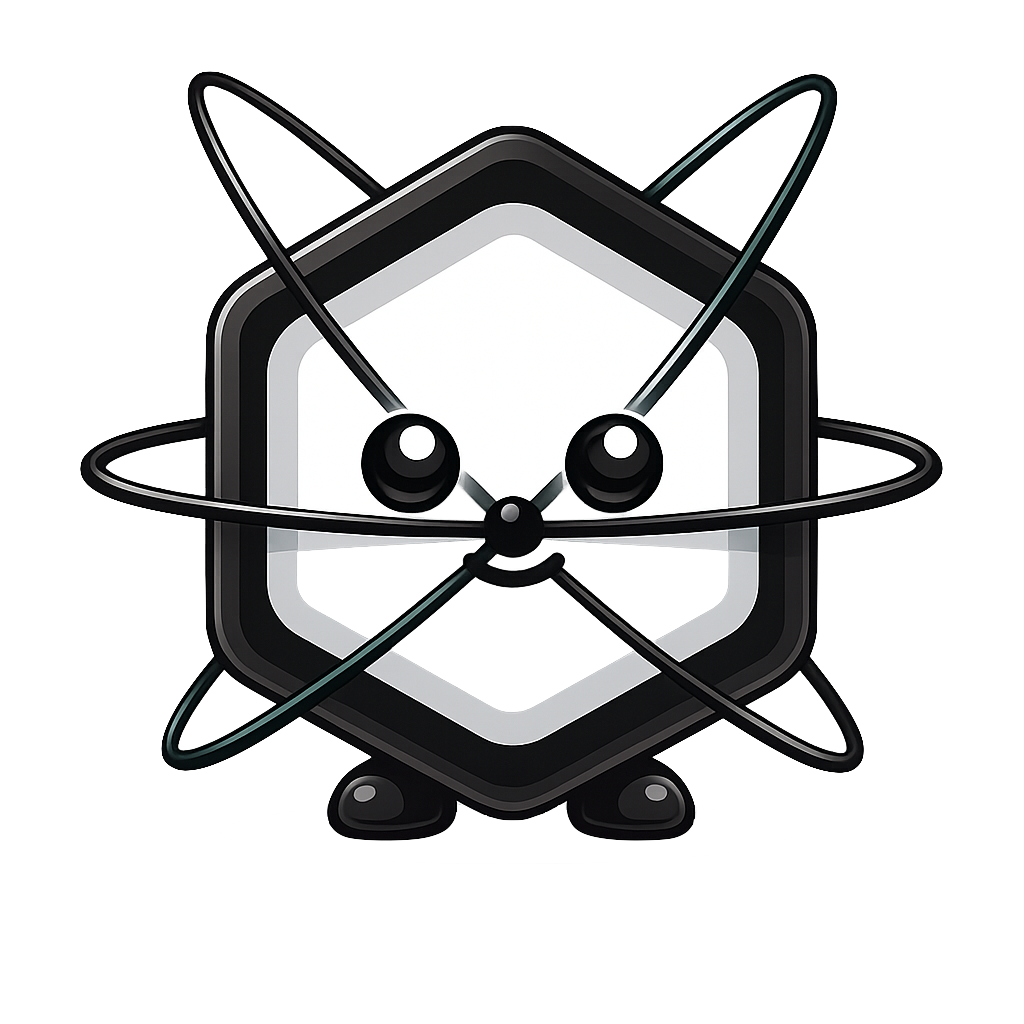
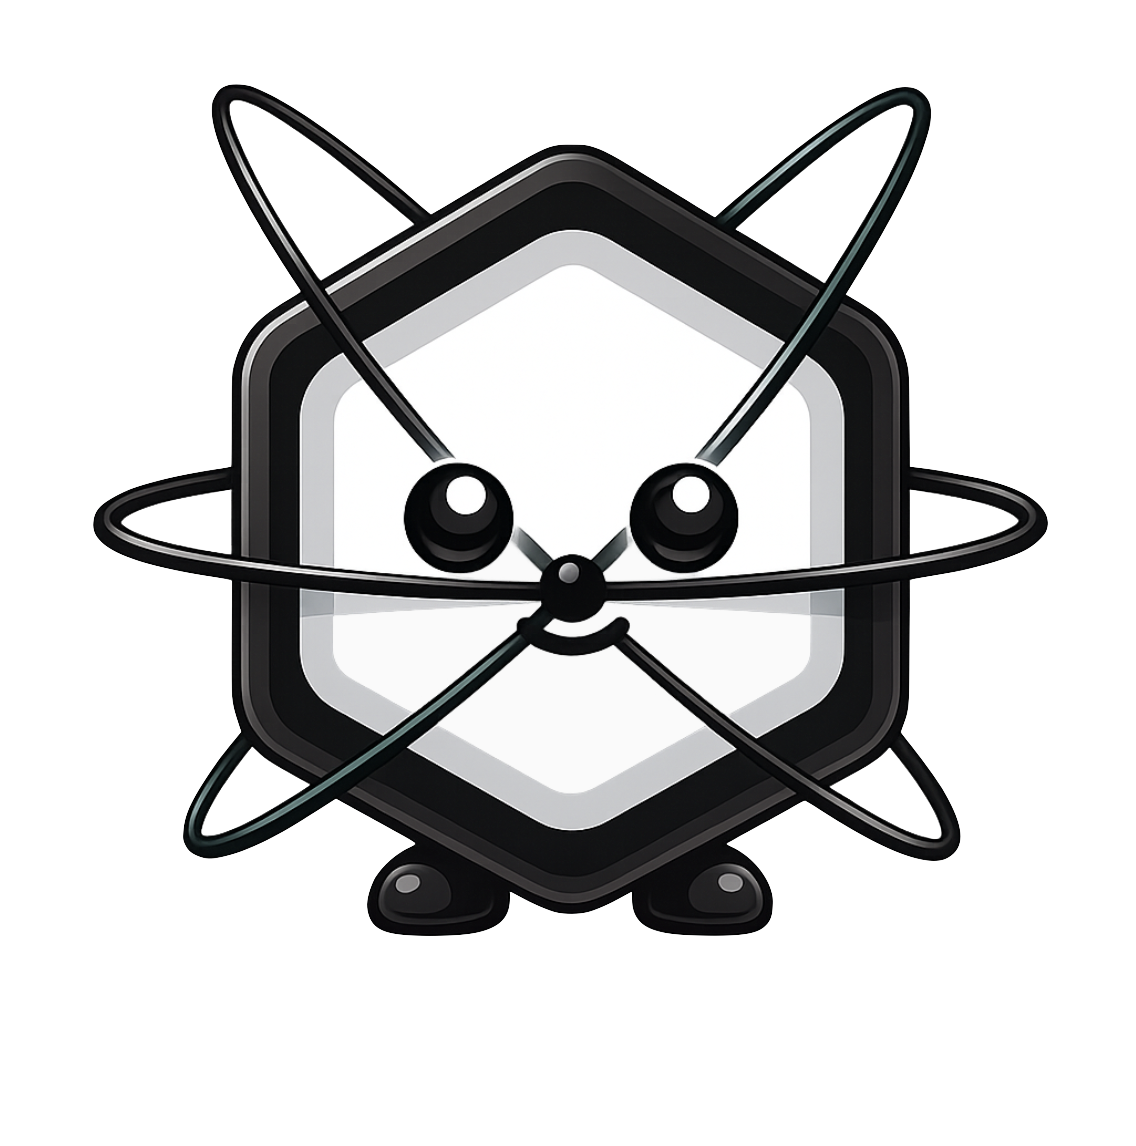
fix(games): new doodle sprite, unclipped HUD, space-to-shoot
- Replace doodlecharacter.png with the updated artwork (1136x1146).
  No path changes needed; pre-render cache rebuilds on load.
- Drop overflow:hidden on the .hud row and add a few px of bottom
  padding so the chip drop-shadows are no longer clipped against the
  canvas frame. flex-wrap:nowrap already prevents reflow on width
  changes, which is why overflow:hidden was there in the first place.
- Add a player projectile system: Space (or Up) fires a bullet
  upward at a 14-frame cooldown. Bullets cull off-screen, kill any
  monster they touch, and emit a small spark burst on impact. Bullet
  collisions resolve before monster->player collisions in the same
  frame so a well-timed shot saves you from the hit. Start overlay
  copy and key legend updated to mention shooting.

diff --git a/posts/games/_doodle_template.html b/posts/games/_doodle_template.html
@@ -100,10 +100,15 @@
     flex-wrap: nowrap;
     align-items: center;
     justify-content: flex-start;
-    margin: 10px 0 12px;
+    /* Bottom margin includes the chip drop-shadow (1.5px) plus a couple
+       extra pixels so it's never clipped by the canvas-wrap below.
+       NOTE: we deliberately do NOT set overflow:hidden here — it was
+       cutting off the bottom-right of every chip's shadow. flex-wrap:
+       nowrap already prevents the row from reflowing on width changes. */
+    margin: 10px 0 14px;
+    padding-bottom: 3px;
     font-size: 12px;
     font-weight: 600;
-    overflow: hidden;
   }
   .chip {
     display: inline-flex;
@@ -479,10 +484,10 @@
       <div class="overlay" id="overlayStart">
         <div class="overlay-card">
           <h2>Ready to climb?</h2>
-          <p>Bounce ever upward. The first <strong>gold platform</strong> asks a question — get it right for a power-up. If you fall or get hit, answer one of the remaining questions correctly to <strong>save yourself</strong> and keep climbing.</p>
+          <p>Bounce ever upward. The first <strong>gold platform</strong> asks a question — get it right for a power-up. Press <strong>Space</strong> to shoot bullets at monsters. If you fall or get hit, answer one of the remaining questions correctly to <strong>save yourself</strong> and keep climbing.</p>
           <div class="keys">
             <span><kbd>&larr;</kbd><kbd>&rarr;</kbd> Move</span>
-            <span><kbd>Space</kbd> Start</span>
+            <span><kbd>Space</kbd> Shoot / Start</span>
           </div>
           <div class="tilt-hint" style="margin: 4px 0 14px;">
             <svg viewBox="0 0 24 24" fill="none" stroke="currentColor" stroke-width="2" stroke-linecap="round" stroke-linejoin="round">
@@ -684,7 +689,9 @@ let p = null;            // player
 let platforms = [];      // {x,y,w,h,type,vx,used,broken,spawnedQ?}
 let monsters = [];       // {x,y,w,h,vx,kind}
 let powerups = [];       // {x,y,w,h,kind} — spring/jet/shield (drawn on platforms)
+let bullets = [];        // {x,y,vy,life} — player projectiles, fired with Space/Up
 let particles = [];
+let bulletCooldown = 0;  // frames until the player can fire again
 let cameraY = 0;
 let height = 0;          // metres climbed (peak)
 let lives = 3;
@@ -737,6 +744,7 @@ function seedWorld() {
   platforms = [];
   monsters = [];
   powerups = [];
+  bullets = [];
   particles = [];
   // Ground starter.
   spawnPlatform(H - 30, { x: W / 2 - PLATFORM_W / 2, type: "green" });
@@ -803,6 +811,7 @@ function startGame() {
   rescuesUsed = 0;
   answeredCorrectly.clear();
   currentQIndex = -1;
+  bulletCooldown = 0;
   lastFrameTs = 0;
   stepAccumulator = 0;
   p = { x: W / 2 - PLAYER_W / 2, y: H - 100, vx: 0, vy: JUMP_VY, facing: 1 };
@@ -1049,6 +1058,24 @@ function awardPowerForQuestion(idx) {
   }
 }
 
+// Bullets: fired upward from the doodler. Cheap collision check against
+// monsters; kill on hit. Capped fire rate so holding Space doesn't spawn a
+// solid laser column. Range-limited so off-screen bullets don't accumulate.
+const BULLET_VY = -8.5;          // logical-pixel speed (negative = upward)
+const BULLET_LIFE = 80;          // ~1.3s at 60fps — about a screen-and-a-half
+const BULLET_COOLDOWN = 14;      // frames between shots (4-5 per second)
+function fireBullet() {
+  if (state !== STATE.PLAYING || !p) return;
+  if (bulletCooldown > 0) return;
+  bulletCooldown = BULLET_COOLDOWN;
+  bullets.push({
+    x: p.x + PLAYER_W / 2 - 3,
+    y: p.y + 4,
+    vy: BULLET_VY,
+    life: BULLET_LIFE
+  });
+}
+
 function spawnPenaltyMonster() {
   // Place above the player so they have to dodge or take a hit.
   monsters.push({
@@ -1202,6 +1229,38 @@ function step() {
       else if (u.kind === "jet") { activePower = "jet"; powerTicks = 110; }
       powerups.splice(i, 1);
     }
+  }
+
+  // Bullets: advance, expire, and check vs monsters. Order matters — we
+  // resolve bullet→monster collisions BEFORE monster→player collisions so a
+  // shot fired into a monster overhead kills it before it can land on the
+  // doodler in the same frame.
+  if (bulletCooldown > 0) bulletCooldown--;
+  for (let i = bullets.length - 1; i >= 0; i--) {
+    const b = bullets[i];
+    b.y += b.vy;
+    b.life--;
+    // Cull bullets that left the screen or expired.
+    if (b.life <= 0 || b.y < cameraY - 80) { bullets.splice(i, 1); continue; }
+    // Hit any monster?
+    let killed = false;
+    for (let j = monsters.length - 1; j >= 0; j--) {
+      const m = monsters[j];
+      if (b.x + 6 > m.x && b.x < m.x + m.w && b.y + 8 > m.y && b.y < m.y + m.h) {
+        monsters.splice(j, 1);
+        // Little burst of particles for the kill so it feels good.
+        for (let k = 0; k < 6; k++) {
+          particles.push({
+            x: m.x + m.w / 2, y: m.y + m.h / 2,
+            vx: rand(-1.6, 1.6), vy: rand(-1.6, 1.6),
+            life: 22, kind: "spark"
+          });
+        }
+        killed = true;
+        break;
+      }
+    }
+    if (killed) bullets.splice(i, 1);
   }
 
   // Monster collisions.
@@ -1499,6 +1558,23 @@ function draw() {
     }
   }
 
+  // Bullets: bright capsules with a glow trail. Drawn under monsters so
+  // the kill burst above sits on top.
+  for (const b of bullets) {
+    if (b.y < cameraY - 40 || b.y > cameraY + H + 40) continue;
+    ctx.fillStyle = "rgba(255, 220, 80, 0.45)";
+    ctx.beginPath();
+    ctx.arc(b.x + 3, b.y + 5, 7, 0, Math.PI * 2);
+    ctx.fill();
+    ctx.fillStyle = "#fff5b0";
+    ctx.beginPath();
+    ctx.arc(b.x + 3, b.y + 5, 3, 0, Math.PI * 2);
+    ctx.fill();
+    ctx.strokeStyle = "#a87814";
+    ctx.lineWidth = 1.5;
+    ctx.stroke();
+  }
+
   // Monsters: round mauve/red blobs with eyes.
   for (const m of monsters) {
     rect(m.x, m.y, m.w, m.h, "#c0567a", "#7a1f3a");
@@ -1526,6 +1602,12 @@ function draw() {
       ctx.fillStyle = "rgba(120, 120, 130, " + (pa.life / 28) + ")";
       ctx.beginPath();
       ctx.arc(pa.x, pa.y, 3 + (28 - pa.life) * 0.1, 0, Math.PI * 2);
+      ctx.fill();
+    } else if (pa.kind === "spark") {
+      // Bullet-kill burst: bright dot fading out.
+      ctx.fillStyle = "rgba(255, 200, 80, " + (pa.life / 22).toFixed(2) + ")";
+      ctx.beginPath();
+      ctx.arc(pa.x, pa.y, 2.4, 0, Math.PI * 2);
       ctx.fill();
     }
   }
@@ -1601,7 +1683,13 @@ function bindKeys() {
     if (e.key === "ArrowLeft" || e.key === "a" || e.key === "A") keys.left = true;
     if (e.key === "ArrowRight" || e.key === "d" || e.key === "D") keys.right = true;
     if (e.key === " " && state === STATE.IDLE) startGame();
-    if (e.key === " " && state === STATE.OVER) startGame();
+    else if (e.key === " " && state === STATE.OVER) startGame();
+    else if ((e.key === " " || e.key === "ArrowUp") && state === STATE.PLAYING) {
+      // Space / Up while playing fires a bullet upward at any visible
+      // monsters. Cooldown is enforced inside fireBullet so holding the key
+      // produces a steady salvo instead of a solid laser.
+      fireBullet();
+    }
     // Block keys that would normally scroll / pan the host page from inside
     // the iframe, but only while the game is actually running. ArrowUp /
     // ArrowDown are explicitly disabled per the user request even though we
